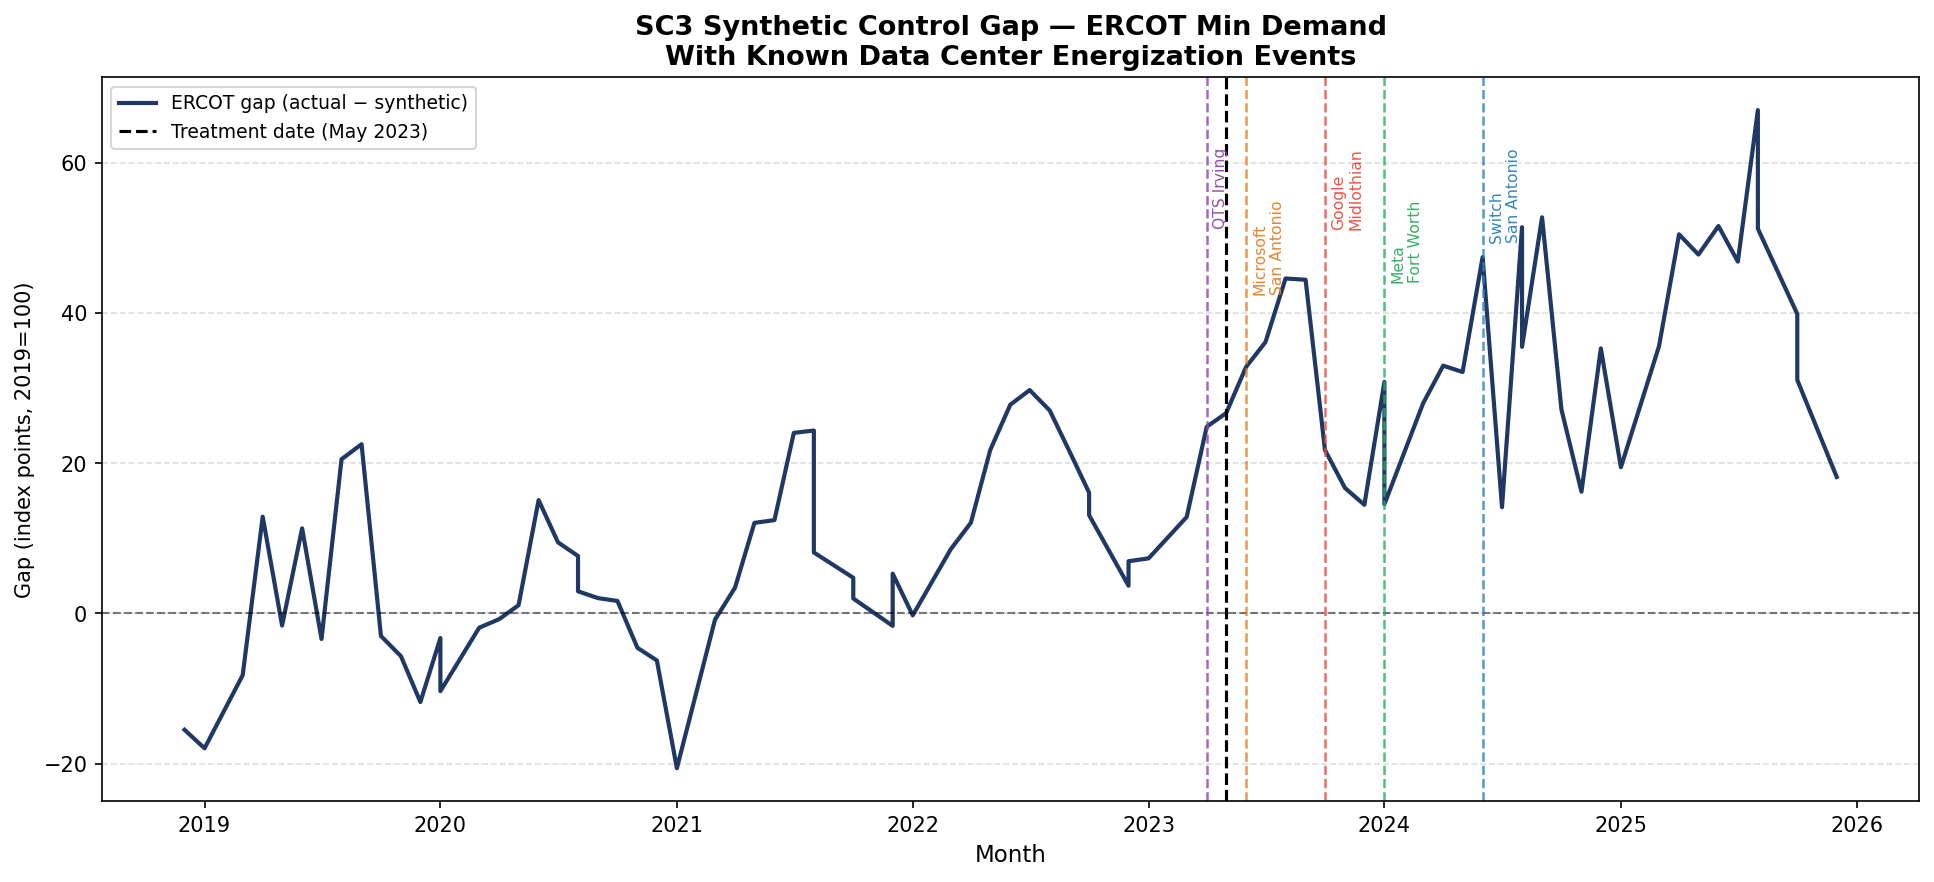
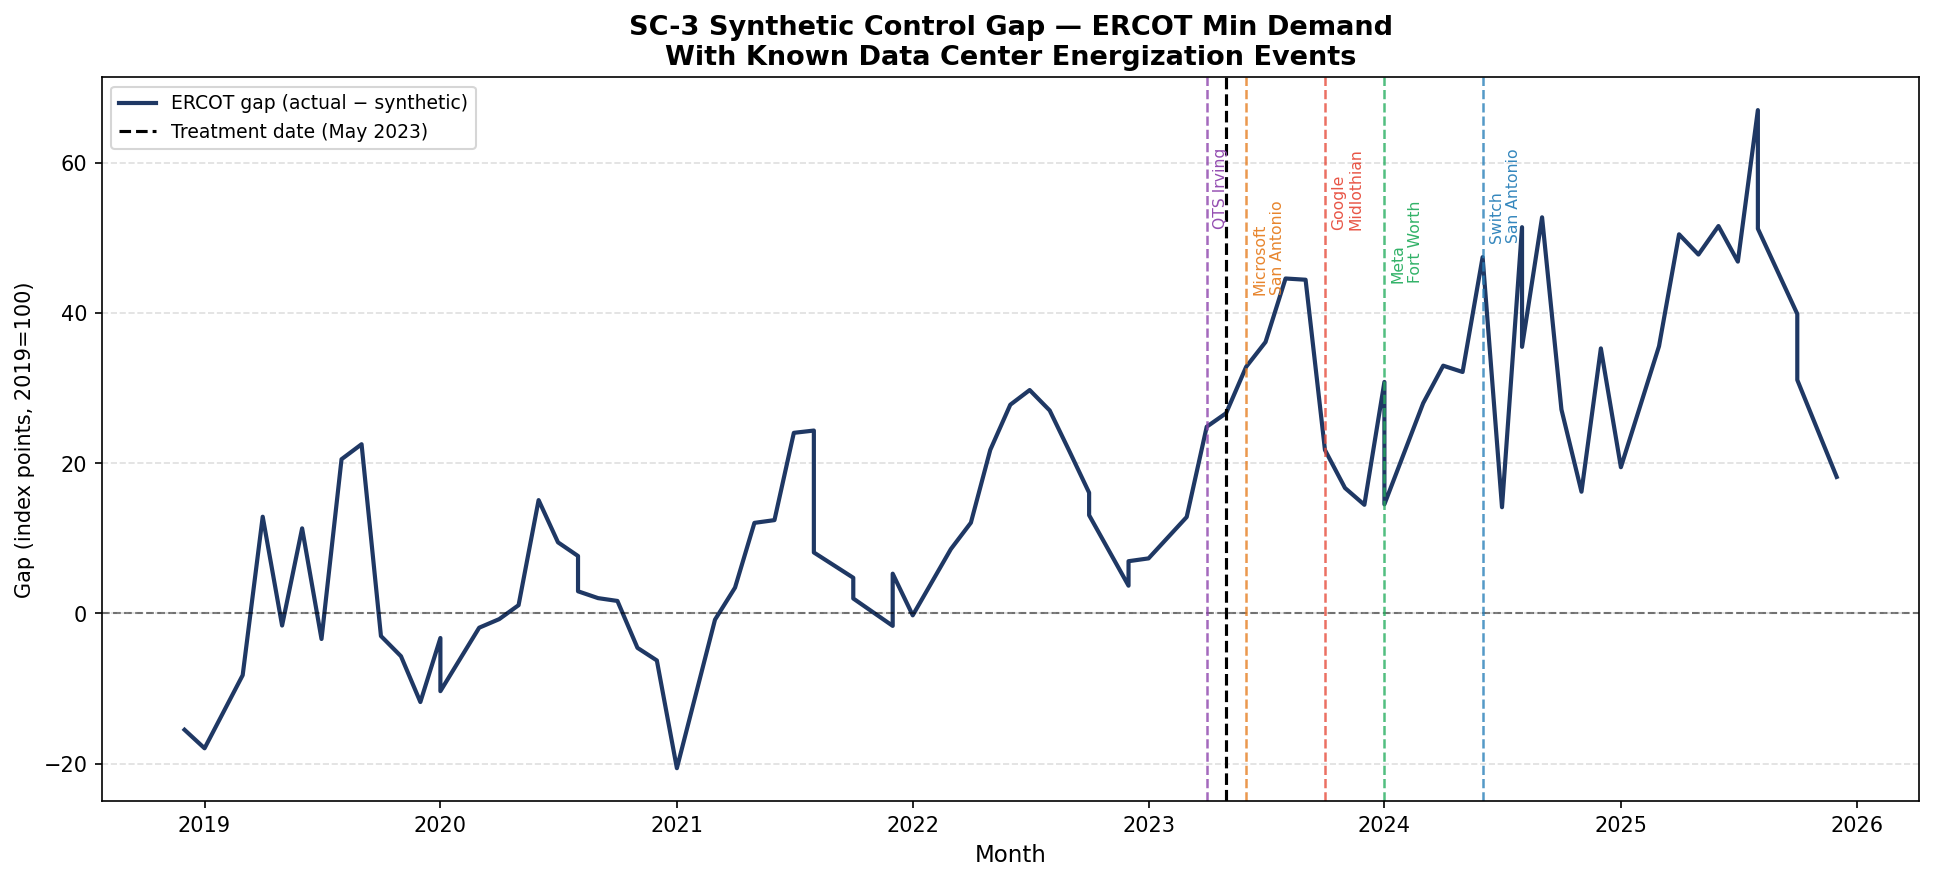
Fix SC3 -> SC-3 in energizations figure title

Changed region(s): [[0.3102, 0.0, 0.7135, 0.0612]]

diff --git a/scripts/plot_sc3_energizations.py b/scripts/plot_sc3_energizations.py
@@ -75,7 +75,7 @@ for (label, date), color, ypos in zip(energizations, colors_e, y_positions):
 
 # ── Labels and formatting ─────────────────────────────────────────────────────
 ax.set_title(
-    "SC3 Synthetic Control Gap — ERCOT Min Demand\nWith Known Data Center Energization Events",
+    "SC-3 Synthetic Control Gap — ERCOT Min Demand\nWith Known Data Center Energization Events",
     fontsize=13, fontweight="bold"
 )
 ax.set_xlabel("Month", fontsize=11)